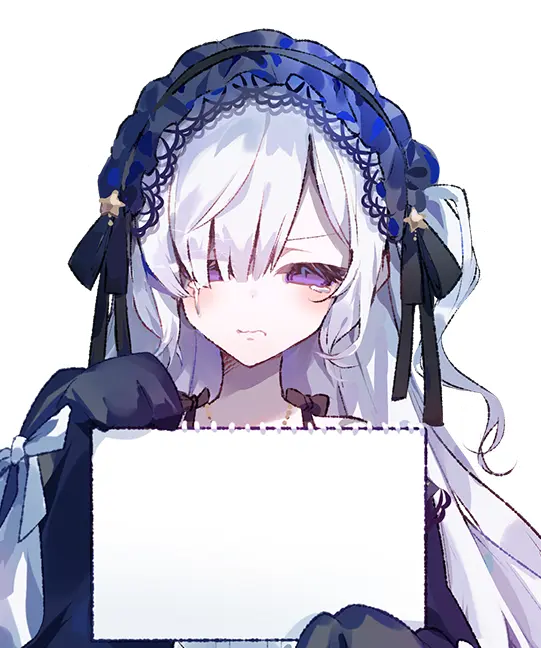
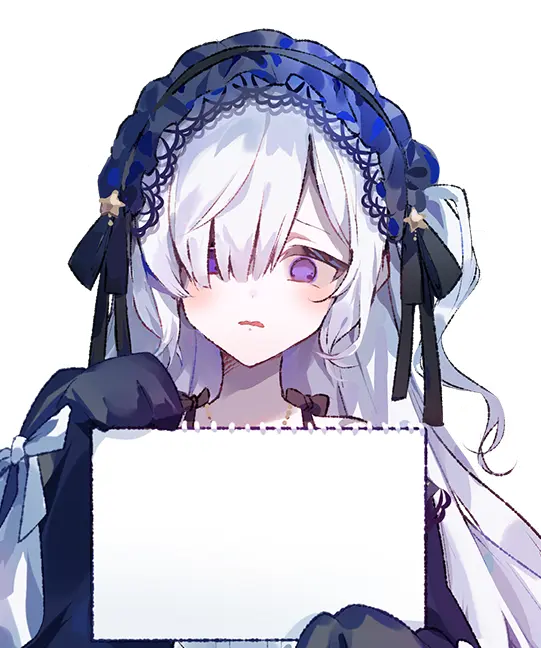
refractor：继续重构代码

Changed region(s): [[0.5028, 0.3395, 0.6506, 0.463], [0.2957, 0.3704, 0.4436, 0.4938], [0.4436, 0.4938, 0.5028, 0.5247]]

diff --git a/src/components/Canvas/MagicalCanvas.tsx b/src/components/Canvas/MagicalCanvas.tsx
@@ -1,28 +1,20 @@
 import React, { useRef, useState, useLayoutEffect } from 'react';
 import { Stage } from 'react-konva';
-import { CHARACTERS, getCanvasBase } from '../../data/characters';
 import { useStore } from '../../store/useStore';
 import Konva from 'konva';
 import TextBoxLayer from './TextBoxLayer.tsx';
+import { getCanvasBase } from '../../data/canvas.ts';
+import SketchbookLayer from './SketchbookLayer.tsx';
 
 interface MagicalCanvasProps {
   stageRef: React.RefObject<Konva.Stage | null>;
 }
 
 export const MagicalCanvas: React.FC<MagicalCanvasProps> = ({ stageRef }) => {
-  const {
-    selectedCharId,
-    expressionIndex,
-    bgIndex,
-    textContent,
-    isFontLoaded,
-    textAlign,
-    layoutType,
-  } = useStore();
+  const { isFontLoaded, layoutType } = useStore();
 
   const CANVAS_BASE = getCanvasBase(layoutType);
 
-  const charConfig = CHARACTERS[selectedCharId];
   const containerRef = useRef<HTMLDivElement>(null);
   // 1. 初始值估算：根据窗口宽度预判 Canvas 缩放比例，防止第一帧画面过大或过小
   const [scale, setScale] = useState(() => {
@@ -67,16 +59,7 @@ export const MagicalCanvas: React.FC<MagicalCanvasProps> = ({ stageRef }) => {
       clearTimeout(timeout);
       window.removeEventListener('resize', updateSize);
     };
-  }, [hasInit]);
-
-  const getAssetPath = (path: string) => {
-    return path;
-  };
-
-  const bgPath = getAssetPath(`assets/backgrounds/c${bgIndex}.webp`);
-  const charPath = getAssetPath(
-    `assets/characters/${charConfig.id}/${charConfig.id} (${expressionIndex}).webp`
-  );
+  }, [CANVAS_BASE.width, hasInit]);
 
   if (!isFontLoaded) {
     return (
@@ -108,13 +91,14 @@ export const MagicalCanvas: React.FC<MagicalCanvasProps> = ({ stageRef }) => {
           scaleY={scale}
           ref={stageRef}
         >
-          <TextBoxLayer
-            textContent={textContent}
-            textAlign={textAlign}
-            bgPath={bgPath}
-            charPath={charPath}
-            charConfig={charConfig}
-          ></TextBoxLayer>
+          {(() => {
+            switch (layoutType) {
+              case 'sketchbook':
+                return <SketchbookLayer></SketchbookLayer>;
+              case 'text_box':
+                return <TextBoxLayer></TextBoxLayer>;
+            }
+          })()}
         </Stage>
       </div>
     </div>

diff --git a/src/components/Canvas/AutoFitRichText.tsx b/src/components/Canvas/AutoFitRichText.tsx
@@ -1,0 +1,53 @@
+import React, { useState, useEffect } from 'react';
+import { KonvaRichText } from './KonvaRichText';
+import { calculateRichTextLayout } from '../../utils/richText.ts';
+
+interface AutoFitRichTextProps {
+  text: string;
+  x: number;
+  y: number;
+  width: number;
+  height: number;
+  align?: 'left' | 'center';
+  minFontSize?: number;
+  maxFontSize?: number;
+}
+
+export const AutoFitRichText: React.FC<AutoFitRichTextProps> = ({
+  text,
+  x,
+  y,
+  width,
+  height,
+  minFontSize = 10,
+  maxFontSize = 100,
+}) => {
+  const [fontSize, setFontSize] = useState(40);
+
+  useEffect(() => {
+    let low = minFontSize;
+    let high = maxFontSize;
+    let best = minFontSize;
+
+    // 二分法查找最佳字号
+    while (low <= high) {
+      const mid = Math.floor((low + high) / 2);
+      const layout = calculateRichTextLayout(text, width, height, mid);
+
+      // 如果计算出的总高度小于等于容器高度，说明这个字号可行，尝试更大的
+      if (layout.totalHeight <= height) {
+        best = mid;
+        low = mid + 1;
+      } else {
+        high = mid - 1;
+      }
+    }
+    setFontSize(best);
+  }, [text, width, height, minFontSize, maxFontSize]);
+
+  return (
+    <KonvaRichText text={text} x={x} y={y} width={width} height={height} fontSize={fontSize} />
+  );
+};
+
+export default AutoFitRichText;

diff --git a/src/components/Canvas/TextBoxLayer.tsx b/src/components/Canvas/TextBoxLayer.tsx
@@ -1,25 +1,25 @@
 import { Group, Layer, Text } from 'react-konva';
-import { CharacterConfig, TEXT_BOX_CANVAS_BASE, TEXT_BOX_CONFIG } from '../../data/characters.ts';
+import { CHARACTERS, TEXT_BOX_CONFIG } from '../../data/characters.ts';
 import AutoFitText from './AutoFitText.tsx';
 import { URLImage } from './URLImage.tsx';
+import { TEXT_BOX_CANVAS_BASE } from '../../data/canvas.ts';
+import { getAssetPath } from '../../utils/getAssetPath.ts';
+import { useStore } from '../../store/useStore.ts';
 
 export default function TextBoxLayer({
-  textContent,
-  textAlign,
-  bgPath,
-  charPath,
-  charConfig,
   width = TEXT_BOX_CANVAS_BASE.width,
   height = TEXT_BOX_CANVAS_BASE.height,
 }: {
-  textContent: string;
-  textAlign: 'left' | 'center' | 'right';
-  bgPath: string;
-  charPath: string;
-  charConfig: CharacterConfig;
   width?: number;
   height?: number;
 }) {
+  const { textContent, expressionIndex, bgIndex, textAlign, selectedCharId } = useStore();
+  const charConfig = CHARACTERS[selectedCharId];
+
+  const bgPath = getAssetPath(`assets/backgrounds/c${bgIndex}.webp`);
+  const charPath = getAssetPath(
+    `assets/characters/${charConfig.id}/${charConfig.id} (${expressionIndex}).webp`
+  );
   return (
     <Layer>
       <URLImage src={bgPath} x={0} y={0} width={width} height={height} />

diff --git a/src/components/Canvas/SketchbookLayer.tsx b/src/components/Canvas/SketchbookLayer.tsx
@@ -1,0 +1,50 @@
+import { Layer } from 'react-konva';
+import { URLImage } from './URLImage';
+import AutoFitRichText from './AutoFitRichText.tsx';
+import { SKETCHBOOK_CANVAS_BASE } from '../../data/canvas.ts';
+import { SKETCHBOOK_CONFIG } from '../../data/ananSketchbook.ts';
+import { useStore } from '../../store/useStore.ts';
+
+export default function SketchbookLayer({
+  width = SKETCHBOOK_CANVAS_BASE.width,
+  height = SKETCHBOOK_CANVAS_BASE.height,
+}: {
+  width?: number;
+  height?: number;
+}) {
+  const { expressionIndex, textContent } = useStore();
+
+  const textPos = SKETCHBOOK_CONFIG.sketchTextPos;
+
+  return (
+    <Layer>
+      {/* 素描本模式：
+         角色图 (charPath) 即为背景，铺满画布
+      */}
+      <URLImage
+        src={SKETCHBOOK_CONFIG.getImgPath(expressionIndex)}
+        x={0}
+        y={0}
+        width={width}
+        height={height}
+      />
+
+      {/* 富文本组件：支持 [变色] */}
+      <AutoFitRichText
+        text={textContent}
+        x={textPos.x}
+        y={textPos.y}
+        width={textPos.width}
+        height={textPos.height}
+      />
+
+      <URLImage
+        src={SKETCHBOOK_CONFIG.getOverlayImgPath()}
+        x={0}
+        y={0}
+        width={width}
+        height={height}
+      />
+    </Layer>
+  );
+}

diff --git a/src/utils/getAssetPath.ts b/src/utils/getAssetPath.ts
@@ -1,0 +1,13 @@
+/**
+ * 获取资源路径, 去掉开头的 /. 你可能觉得有点莫名奇妙，但是这是为了兼容 vite 的路径问题
+ * 比如 vite 的静态资源路径是 /static/xxx.png, 浏览器中的浏览路径是example.com/first
+ * 如果在img的ref中引用 /static/xxx.png, 则在浏览器中会访问 example.com/static/xxx.png,
+ * 这在使用github page部署的时候会出问题
+ * 但是如果使用 static/xxx.png, 则在浏览器中会访问 example.com/first/static/xxx.png, 这是正确的
+ * 有点奇妙，但是work！
+ * 不过一个坏处是，项目结构只能是SPA了
+ */
+export const getAssetPath = (path: string) => {
+  if (path.startsWith('/')) return path.slice(1);
+  return path;
+};

diff --git a/src/data/characters.ts b/src/data/characters.ts
@@ -1,26 +1,7 @@
 // 移植自 main.py 和 text_configs_dict
 // 颜色格式转换辅助
-import { LayoutType } from '../store/useStore.ts';
 
 const rgb = (r: number, g: number, b: number) => `rgb(${r},${g},${b})`;
-
-export const TEXT_BOX_CANVAS_BASE = {
-  width: 2560,
-  height: 834,
-};
-export const SKETCHBOOK_CANVAS_BASE = {
-  width: 514,
-  height: 648,
-};
-
-export function getCanvasBase(layoutType: LayoutType) {
-  switch (layoutType) {
-    case 'text_box':
-      return TEXT_BOX_CANVAS_BASE;
-    case 'sketchbook':
-      return SKETCHBOOK_CANVAS_BASE;
-  }
-}
 
 export interface CharacterConfig {
   id: string;

diff --git a/src/data/canvas.ts b/src/data/canvas.ts
@@ -1,0 +1,19 @@
+import { LayoutType } from '../store/useStore.ts';
+
+export const TEXT_BOX_CANVAS_BASE = {
+  width: 2560,
+  height: 834,
+};
+export const SKETCHBOOK_CANVAS_BASE = {
+  width: 514,
+  height: 648,
+};
+
+export function getCanvasBase(layoutType: LayoutType) {
+  switch (layoutType) {
+    case 'text_box':
+      return TEXT_BOX_CANVAS_BASE;
+    case 'sketchbook':
+      return SKETCHBOOK_CANVAS_BASE;
+  }
+}

diff --git a/src/data/ananSketchbook.ts b/src/data/ananSketchbook.ts
@@ -1,0 +1,16 @@
+import { getAssetPath } from '../utils/getAssetPath.ts';
+
+export const SKETCHBOOK_CONFIG = {
+  sketchTextPos: {
+    x: 119,
+    y: 450,
+    width: 279,
+    height: 175,
+  },
+  getImgPath: (index: number) => {
+    return getAssetPath(`assets/anan_sketchbook/sketchbook (${index}).webp`);
+  },
+  getOverlayImgPath: () => {
+    return getAssetPath(`assets/anan_sketchbook/base_overlay.webp`);
+  },
+};
